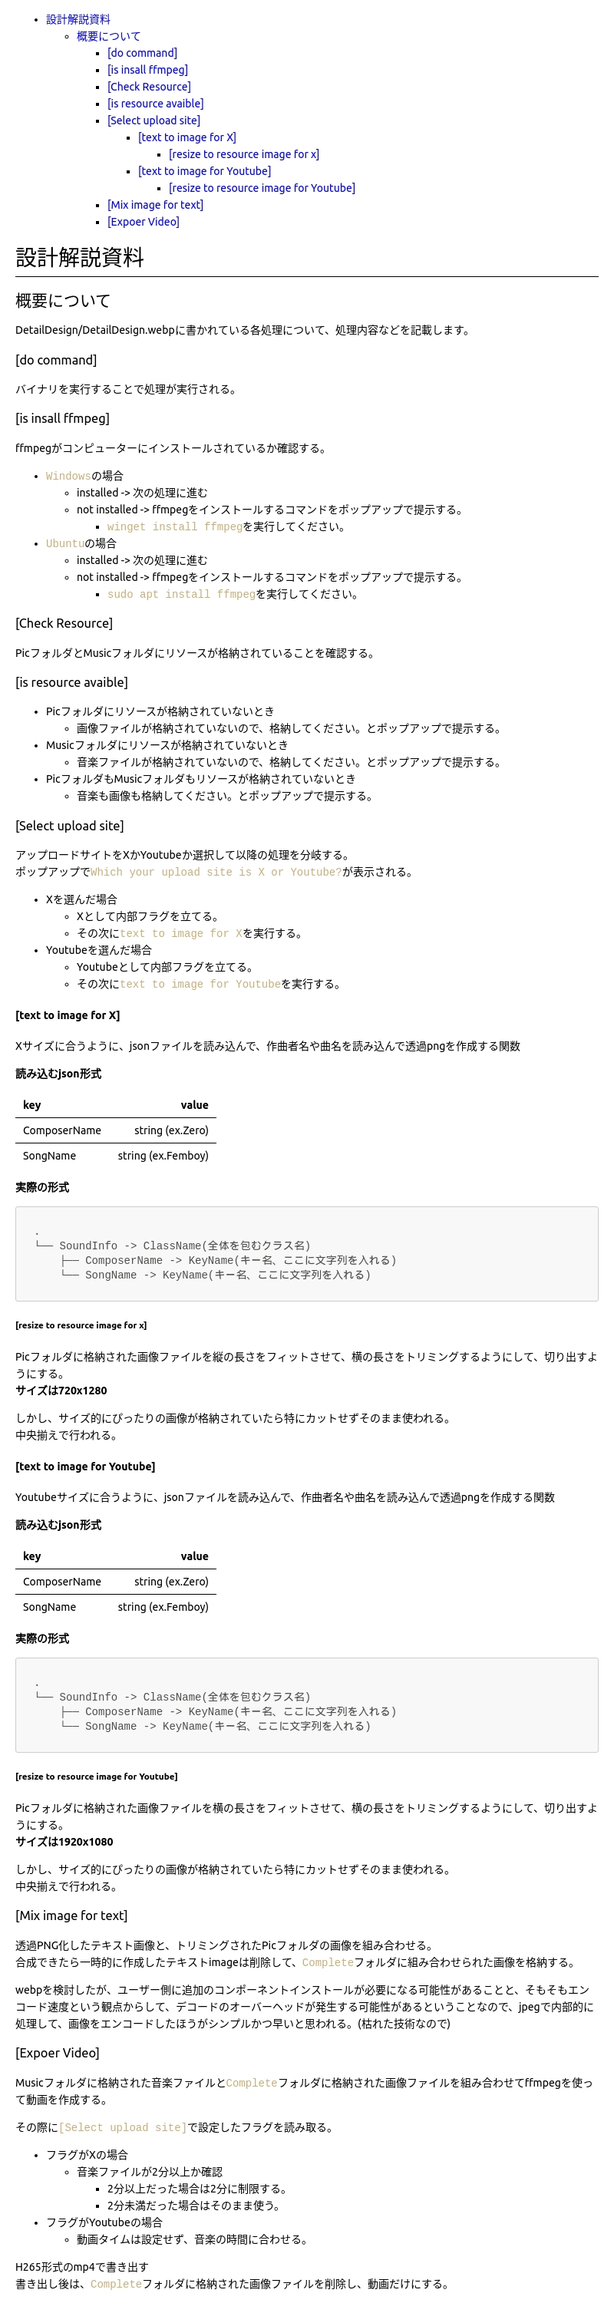
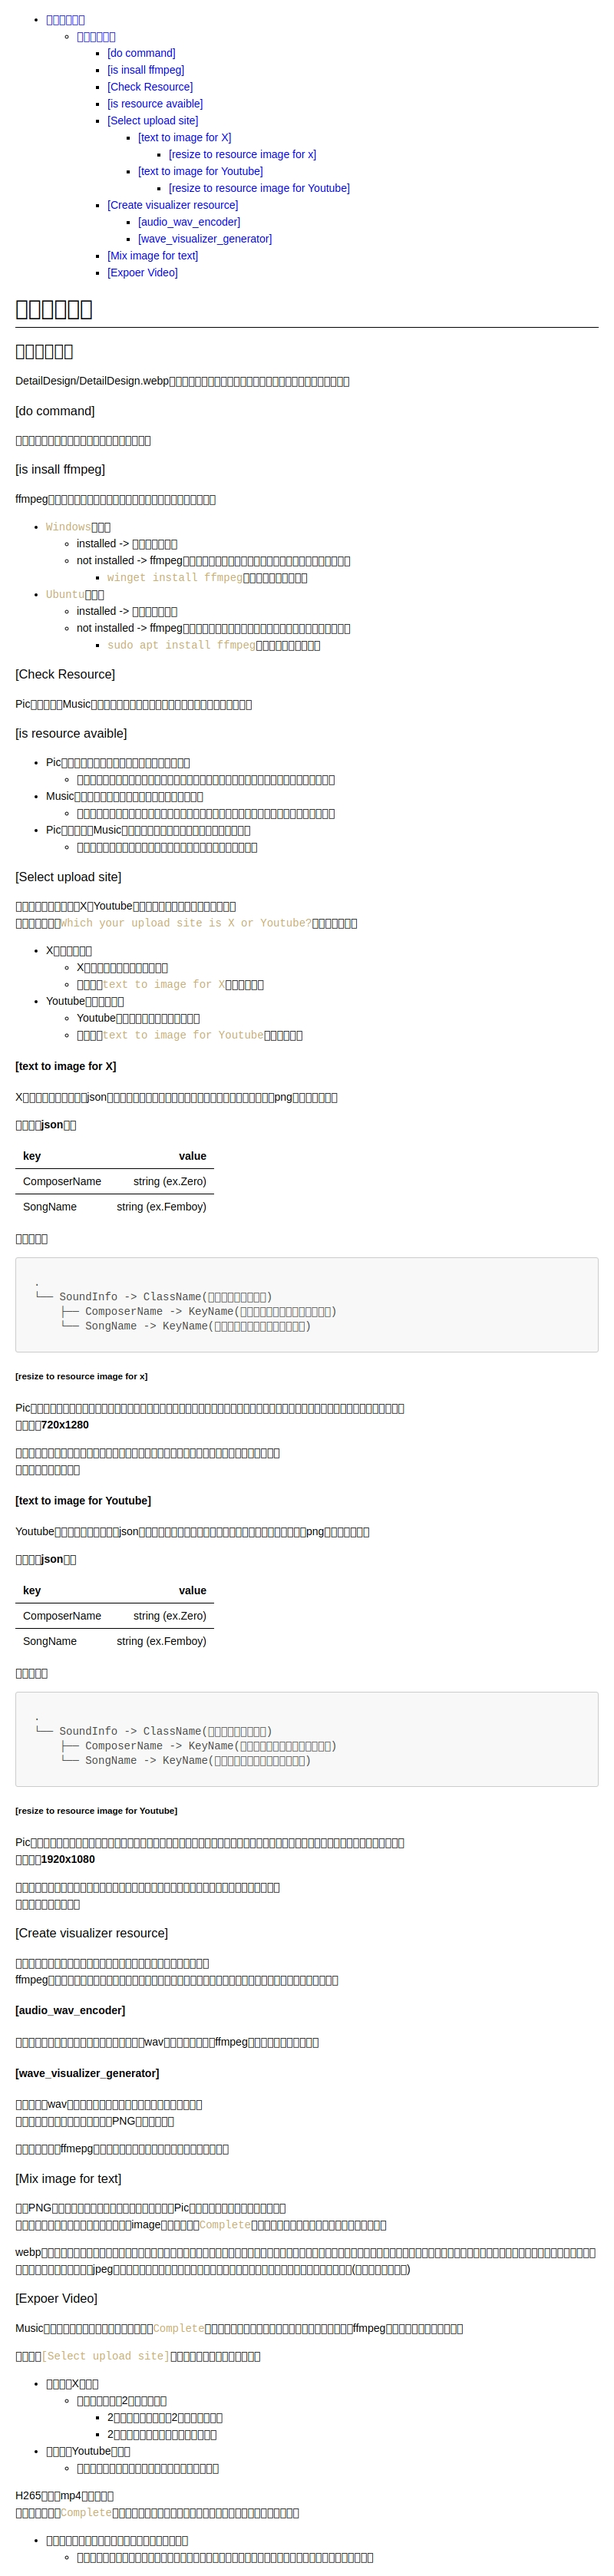
ビジュアライザー設計を追加

Changed region(s): [[0.0312, 0.0, 0.9688, 1.0], [0.7188, 0.3099, 0.7812, 0.3409], [0.5, 0.6508, 0.5312, 0.6818]]

diff --git a/DetailDesign/Explanation.html b/DetailDesign/Explanation.html
@@ -388,6 +388,12 @@ code {
 </li>
 </ul>
 </li>
+<li><a href="#create-visualizer-resource">[Create visualizer resource]</a>
+<ul>
+<li><a href="#audio_wav_encoder">[audio_wav_encoder]</a></li>
+<li><a href="#wave_visualizer_generator">[wave_visualizer_generator]</a></li>
+</ul>
+</li>
 <li><a href="#mix-image-for-text">[Mix image for text]</a></li>
 <li><a href="#expoer-video">[Expoer Video]</a></li>
 </ul>
@@ -525,6 +531,15 @@ code {
 <strong>サイズは1920x1080</strong></p>
 <p>しかし、サイズ的にぴったりの画像が格納されていたら特にカットせずそのまま使われる。<br>
 中央揃えで行われる。</p>
+<h3 id="create-visualizer-resource">[Create visualizer resource]</h3>
+<p>オーディオビジュアライザー用の連番画像を生成するための処理群<br>
+ffmpegに連番画像群を動画のような扱いで指定するオプションがあるようなので、それを用いて実装する。</p>
+<h4 id="audiowavencoder">[audio_wav_encoder]</h4>
+<p>格納された音声ファイルを解析できるようにwavに変換する処理。ffmpegを使っても良いと思う。</p>
+<h4 id="wavevisualizergenerator">[wave_visualizer_generator]</h4>
+<p>格納されたwavファイルを用いて、連番画像を作成する処理。<br>
+当然だが、音声を波形化した透過PNGで書き出す。</p>
+<p>透過した連番はffmepgで動画素材のように指定できるようようです。</p>
 <h3 id="mix-image-for-text">[Mix image for text]</h3>
 <p>透過PNG化したテキスト画像と、トリミングされたPicフォルダの画像を組み合わせる。<br>
 合成できたら一時的に作成したテキストimageは削除して、<code>Complete</code>フォルダに組み合わせられた画像を格納する。</p>
@@ -551,6 +566,13 @@ code {
 </ul>
 <p>H265形式のmp4で書き出す<br>
 書き出し後は、<code>Complete</code>フォルダに格納された画像ファイルを削除し、動画だけにする。</p>
+<ul>
+<li>オーディオビジュアライザーを乗せる際の対応。
+<ul>
+<li>現行の書き出しに追加で連番画像を動画ファイルのように指定して、書き出しを行わないといけない。</li>
+</ul>
+</li>
+</ul>
 
 </body>
 </html>
